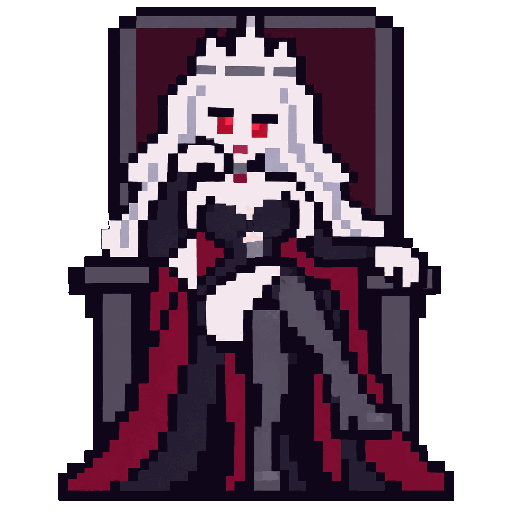
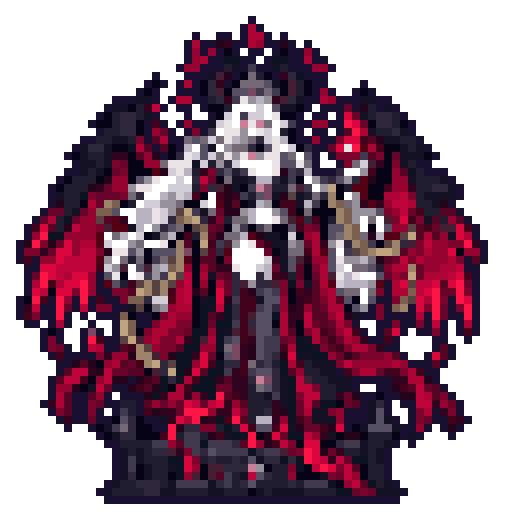
보스 8종 새 그림 · 64칸 도트화 (v0.34.0)
- 화염룡·오크·리치·세머리 용·키클롭스·오버로드·마왕·마신 그림을 새로 넣는다
- tools/make_boss_sprites.py: 원본을 64칸 도트(32색, 8배 확대 512px)로 줄인다
- 분노는 그림을 바꾸지 않고 연출로만 (demon_rage.png 삭제)
- 이전 그림은 backup/dice-heroes-boss-v1

Claude-Session: https://claude.ai/code/session_014gChBYzVF9cfUwsBghVSK5

diff --git a/dice-heroes/app.js b/dice-heroes/app.js
@@ -86,8 +86,7 @@ const br = s => esc(s).replace(/\n/g, '<br>');
 // 분노: 어려움에서 화면에 보이는 체력(연출 중엔 아직 안 깎인 체력)이 절반 아래일 때 — 피해 연출보다 먼저 분노해 보이지 않게
 const shownHp = () => (S?.boss ? ui.hpHold ?? S.boss.hp : 0);
 const bossRaging = () => !!S?.boss && S.boss.diff === 2 && shownHp() * 2 < S.boss.maxHp && shownHp() > 0;
-const rageShown = () => bossRaging() && ui.rageSeed === S.seed;   // 분노 변신 연출을 본 뒤부터 분노한 모습
-const bossArt = () => (['demon', 'archdemon'].includes(S?.boss?.id) && rageShown() ? `${S.boss.id}_rage` : S?.boss?.id);
+const bossArt = () => S?.boss?.id;
 const portrait = (id, cl = '') => `<img class="spr ${cl}${isImgSprite(id) ? ' spr-hi' : ''}" data-spr="${id}" src="${spriteURL(id, 4)}" alt="">`;   // spr-hi: 그림 파일 스프라이트는 부드럽게 줄인다
 const perkIco = (id, cls) => ico(PERK_ICON[id], cls);
 const questIco = (id, cls) => ico(QUEST_ICON[id], cls);
@@ -1712,13 +1711,13 @@ function countUp(root) {
   });
 }
 
-// 분노 변신: 화면 가운데에 보스가 크게 나타나 몸을 떨며 변한다 (마왕은 분노한 모습으로 바뀐다)
+// 분노 변신: 화면 가운데에 보스가 크게 나타나 몸을 떨며 변한다 (그림은 그대로, 연출로만)
 async function rageScene() {
   ui.rageSeed = S.seed;
   const b = E.bossInfo(S.boss.id);
   const rageSkill = b.skills.find(k => k.id === 'rage');
   const pal = PALETTES[RAGE[b.id]] || PALETTES.fire;
-  const before = spriteURL(b.id, 12), after = spriteURL(['demon', 'archdemon'].includes(b.id) ? `${b.id}_rage` : b.id, 12);
+  const before = spriteURL(b.id, 12), after = before;
   const el = document.createElement('div');
   el.className = 'rage-scene';
   el.style.setProperty('--c', b.color);

diff --git a/dice-heroes/pixel.js b/dice-heroes/pixel.js
@@ -352,10 +352,10 @@ export const HERO_POSES = {};   // 예: { warrior: ['attack', 'hurt'] }
 // 그림 파일로 된 스프라이트 — 마왕 릴리스 (512px 도트 그림: 평소 · 분노) · 새 직업 그림. 파일을 받기 전에는 위의 도트로 대신 그린다
 // 주소 끝 ?v=게임 버전: 그림을 바꿔 배포하면 오프라인 캐시에 남은 예전 그림 대신 바로 새 그림을 받는다 (sw.js)
 const AV = `?v=${GAME.version}`;
+const BOSS_ART = ['dragon', 'orc', 'lich', 'hydra', 'cyclops', 'overlord', 'demon', 'archdemon'];
 const IMG_SPRITES = {
-  demon: `assets/boss/demon.png${AV}`, demon_rage: `assets/boss/demon_rage.png${AV}`,
-  // 마신: 그림을 받기 전까지 마왕의 분노 그림을 쓴다
-  archdemon: `assets/boss/demon_rage.png${AV}`, archdemon_rage: `assets/boss/demon_rage.png${AV}`,
+  // 보스 8종 그림 (tools/make_boss_sprites.py로 도트화). 분노는 그림을 바꾸지 않고 연출로만 보여 준다
+  ...Object.fromEntries(BOSS_ART.map(id => [id, `assets/boss/${id}.png${AV}`])),
   ...(HERO_ART === 'v1' ? {} : Object.fromEntries(HERO_IDS.flatMap(id => [[id, `assets/heroes/${id}.webp${AV}`],
     ...(HERO_POSES[id] || []).map(pose => [`${id}_${pose}`, `assets/heroes/${id}_${pose}.webp${AV}`])]))),
 };

diff --git a/dice-heroes/sw.js b/dice-heroes/sw.js
@@ -12,7 +12,7 @@ const FILES = [
   'fonts/Galmuri11.woff2', 'fonts/Galmuri11-Bold.woff2', 'icons/icon-192.png', 'icons/icon-512.png', 'icons/icon-maskable-512.png',
   'assets/bgm/title.ogg', 'assets/bgm/versus.ogg',
   'assets/bgm/boss_dragon.ogg', 'assets/bgm/boss_orc.ogg', 'assets/bgm/boss_lich.ogg', 'assets/bgm/boss_demon.ogg',
-  'assets/boss/demon.png', 'assets/boss/demon_rage.png',
+  ...['dragon', 'orc', 'lich', 'hydra', 'cyclops', 'overlord', 'demon', 'archdemon'].map(id => `assets/boss/${id}.png`),
   ...['warrior', 'rogue', 'mage', 'bard', 'gambler', 'monk', 'dancer', 'outlaw', 'sharper'].map(k => `assets/heroes/${k}.webp`),
   // 그림 주사위 스킨 (오프라인에서 꾸미기를 바꿔도 보이게)
   ...['marble', 'royal', 'deepsea', 'demon', 'sakura', 'lava', 'starry'].flatMap(k => ['floor', 'glow', 'box', 'thumb'].map(f => `assets/trays/${k}/${f}.webp`)),

diff --git a/dice-heroes/config.js b/dice-heroes/config.js
@@ -3,6 +3,6 @@ export const GAME = {
   name: '요트 히어로즈',
   en: 'YACHT HEROES',
   studio: 'HAHAHOHO COMPANY',
-  version: '0.33.0',
+  version: '0.34.0',
   year: 2026,
 };

diff --git a/dice-heroes/tools/make_boss_sprites.py b/dice-heroes/tools/make_boss_sprites.py
@@ -1,0 +1,95 @@
+"""보스 그림(tools/boss-src/*.webp, 무손실)을 게임용 도트로 줄인다 → assets/boss/<id>.png
+
+원본은 생성 그림이라 너무 촘촘해서, 보스 칸(68~96px)에서는 잔점이 뭉개져 화질이 나빠 보인다.
+도트 한 칸을 굵게(GRID칸 격자) 만든다:
+  1) 목표의 4배 크기로 줄여 경계 보존 평탄화로 미세 질감을 지운다
+  2) 목표 크기로 평균 축소 → 살짝 샤픈
+  3) Lab k-평균으로 COLORS색 (채도 축에 무게를 줘야 금빛 사슬·눈빛이 살아남는다)
+  4) 외톨이 점 정리 → 바깥 테두리 한 칸 → SCALE배 최근접 확대
+
+    python3 tools/make_boss_sprites.py            # 전부
+    python3 tools/make_boss_sprites.py demon orc  # 일부
+"""
+import sys
+from pathlib import Path
+import cv2
+import numpy as np
+from PIL import Image
+
+ROOT = Path(__file__).resolve().parent.parent
+SRC, OUT = ROOT / 'tools' / 'boss-src', ROOT / 'assets' / 'boss'
+GRID, SCALE = 64, 8           # 64칸 × 8 = 512px
+FIT = GRID - 4                # 그림이 차지하는 최대 칸
+BOTTOM = GRID - 2             # 발밑(받침) 줄
+COLORS = 32
+CHROMA = 1.8                  # 색 묶을 때 채도(a·b) 가중치
+SMOOTH = 2                    # 평탄화 횟수
+SHARPEN = 0.6
+OUTLINE = (26, 16, 48)        # #1A1030 · 다른 도트와 같은 외곽선 색
+IDS = ['dragon', 'orc', 'lich', 'hydra', 'cyclops', 'overlord', 'demon', 'archdemon']
+
+
+def area(pm, size):
+    """알파를 곱한 채로 줄여야 가장자리가 검게 번지지 않는다"""
+    pm = cv2.resize(pm, size, interpolation=cv2.INTER_AREA)
+    al = pm[..., 3]
+    rgb = np.where(al[..., None] > 1e-3, pm[..., :3] / np.maximum(al[..., None], 1e-3), 0)
+    return np.clip(rgb, 0, 1).astype(np.float32), al
+
+
+def pixelate(name):
+    a = np.array(Image.open(SRC / f'{name}.webp').convert('RGBA'))
+    box = Image.fromarray(a[..., 3]).point(lambda v: 255 if v > 24 else 0).getbbox()
+    a = a[box[1]:box[3], box[0]:box[2]]
+    h, w = a.shape[:2]
+    k = FIT / max(w, h)
+    nw, nh = max(1, round(w * k)), max(1, round(h * k))
+    pm = a.astype(np.float32) / 255
+    pm[..., :3] *= pm[..., 3:]
+    # 1) 4배 크기에서 미세 질감 지우기
+    rgb, al = area(pm, (nw * 4, nh * 4))
+    rgb8 = (rgb * 255).astype(np.uint8)
+    for _ in range(SMOOTH):
+        rgb8 = cv2.bilateralFilter(rgb8, 7, 40, 5)
+    # 2) 목표 크기로
+    rgb, al = area(np.dstack([rgb8.astype(np.float32) / 255 * al[..., None], al]), (nw, nh))
+    if SHARPEN:
+        rgb = np.clip(rgb + SHARPEN * (rgb - cv2.GaussianBlur(rgb, (0, 0), 1.0)), 0, 1)
+    # 3) 색 묶기
+    solid = al > 0.5
+    pts = (rgb[solid] * 255).astype(np.uint8)
+    lab = cv2.cvtColor(pts.reshape(-1, 1, 3), cv2.COLOR_RGB2LAB).reshape(-1, 3).astype(np.float32)
+    lab[:, 1:] = (lab[:, 1:] - 128) * CHROMA
+    cv2.setRNGSeed(7)
+    _, lbl, _ = cv2.kmeans(lab, COLORS, None, (cv2.TERM_CRITERIA_EPS + cv2.TERM_CRITERIA_MAX_ITER, 40, 0.2), 4, cv2.KMEANS_PP_CENTERS)
+    lbl = lbl.reshape(-1)
+    pal = np.array([np.median(pts[lbl == i], 0) if (lbl == i).any() else (0, 0, 0) for i in range(COLORS)], np.uint8)
+    G = np.full((nh, nw), -1, int)
+    G[solid] = lbl
+    # 4) 외톨이 점(상하좌우에 같은 색이 없음)은 이웃 셋 이상이 같은 색이면 그 색으로
+    P = np.pad(G, 1, constant_values=-1)
+    N = np.stack([P[:-2, 1:-1], P[2:, 1:-1], P[1:-1, :-2], P[1:-1, 2:]], -1)
+    out = G.copy()
+    for y, x in zip(*np.nonzero((G >= 0) & ~(N == G[..., None]).any(-1))):
+        v = N[y, x][N[y, x] >= 0]
+        c = np.bincount(v) if len(v) else np.zeros(1, int)
+        if c.max() >= 3:
+            out[y, x] = c.argmax()
+    G = out
+    can = np.zeros((GRID, GRID, 4), np.uint8)
+    x0, y0 = (GRID - nw) // 2, BOTTOM - nh
+    sub = can[y0:y0 + nh, x0:x0 + nw]
+    m = G >= 0
+    sub[m, :3] = pal[G[m]]
+    sub[m, 3] = 255
+    on = can[..., 3] > 0
+    p = np.pad(on, 1)
+    can[(p[:-2, 1:-1] | p[2:, 1:-1] | p[1:-1, :-2] | p[1:-1, 2:]) & ~on] = (*OUTLINE, 255)
+    OUT.mkdir(parents=True, exist_ok=True)
+    Image.fromarray(can).resize((GRID * SCALE,) * 2, Image.NEAREST).save(OUT / f'{name}.png', optimize=True)
+    print(name, f'{nw}x{nh}칸')
+
+
+if __name__ == '__main__':
+    for n in sys.argv[1:] or IDS:
+        pixelate(n)

diff --git a/dice-heroes/README.md b/dice-heroes/README.md
@@ -267,7 +267,7 @@ export const BGM_FILES = { title: 'assets/bgm/title.ogg', adventure: 'assets/bgm
 | `skins.js` | 꾸미기: 주사위 스킨 9종(기본·오픈하츠·황금·미니멀·우주·블랙·투명·하트·키캡, 스킨별 굴림 소리) · 트레이 스킨 7종 (트레이는 캔버스로 그림, 유료 해금 자리 `isUnlocked`). 기본을 뺀 8종 주사위 면은 디자인 시트 한 장(`tools/dice-src/sheet-v2.webp`)에서 `tools/make_dice_from_sheet.py` 로 오려 `assets/dice/<스킨>/1~6.webp`(512px) 로 만든다 (v0.30) — 시트 한 칸이 약 110px 라 먼저 `tools/upscale_dice_sheet.py`(Real-ESRGAN x4)로 4배 키운 칸(`tools/dice-src/dice-hires/`)에서 오린다. 키캡은 시트의 사다리꼴 모양이 아니라 눈이 있는 윗면만 입힌다. 트레이는 기본(초록 펠트)을 빼고 7종(클래식·왕실·심해·마왕성·벚꽃·용암·은하)을 트레이 시트(`tools/dice-src/tray-sheet-v2.webp`)에서 `tools/make_trays_from_sheet.py` 로 오려 `assets/trays/<스킨>/{floor,glow,box,thumb}.webp` 로 쓴다 — 시트 한 칸이 약 200px 라 먼저 `tools/upscale_tray_sheet.py`(Real-ESRGAN x4, CPU)로 4배 키운 칸(`tools/dice-src/tray-hires/`)을 쓴다. 바닥은 10:6.4 라 문양을 지운 바탕을 가로로 늘리고 가운데 문양만 원래 비율로 다시 얹는다 (1200×768, 함 바닥 1536×264). 테두리·장식 색은 `skins.js` `IMAGE_TRAY`, 예전 코드 그림은 `TRAY_STYLE` 에 그대로 있다. 예전 코드 그림(하트·키캡·투명·미니멀)은 `drawDieFace` 에 남아 있어 `DIE_MAT` 의 `image: true` 만 지우면 되돌아간다. 바꾸기 직전 상태(v0.29.2)는 브랜치 `backup/dice-heroes-dice-v1` |
 | `dice3d.js` | 3D 주사위 트레이 (물리 궤적 녹화 → 결과 면 매핑 → 재생). 고정한 주사위는 굴릴 때 트레이 아래 나무 주사위 함으로 옮겨 가 굴리는 길을 막지 않는다 |
 | `audio.js` | 칩튠 시퀀서 · 효과음 · 음량 설정 (효과음이 묻히지 않게 채널 비율 + 배경음악 더킹). 협동모드 보스별 곡 `boss_dragon` · `boss_orc` · `boss_lich`, 음원 파일은 `BGM_FILES` → `assets/bgm/` |
-| `pixel.js` · `scenes.js` | 스프라이트(그림 파일 · 예전 도트)와 타이틀 장면 |
+| `pixel.js` · `scenes.js` | 스프라이트(그림 파일 · 예전 도트)와 타이틀 장면. 보스 8종 그림(v0.34)은 원본(`tools/boss-src/<id>.webp`, 무손실)을 `tools/make_boss_sprites.py` 로 64칸 도트(8배 확대 512px, 32색)로 줄여 `assets/boss/<id>.png` 로 쓴다. 분노는 그림을 바꾸지 않고 연출로만 보여 준다. 바꾸기 직전 그림은 브랜치 `backup/dice-heroes-boss-v1` |
 | `tutorial.js` | 튜토리얼 대본(단계·강조 대상·허용 동작·완료 조건) |
 | `style.css` | 도트 프레임 · 픽셀 서체 스타일 |
 | `manifest.webmanifest` · `sw.js` · `icons/` | 설치형 앱(PWA/TWA). 앱 아이콘은 `python3 tools/make_icons.py build 1 <Galmuri11-Bold.ttf>` 로 만든다 (후보 6종 · `sheet` 로 모아 보기, 지금은 1번 「영웅의 일격」) |
